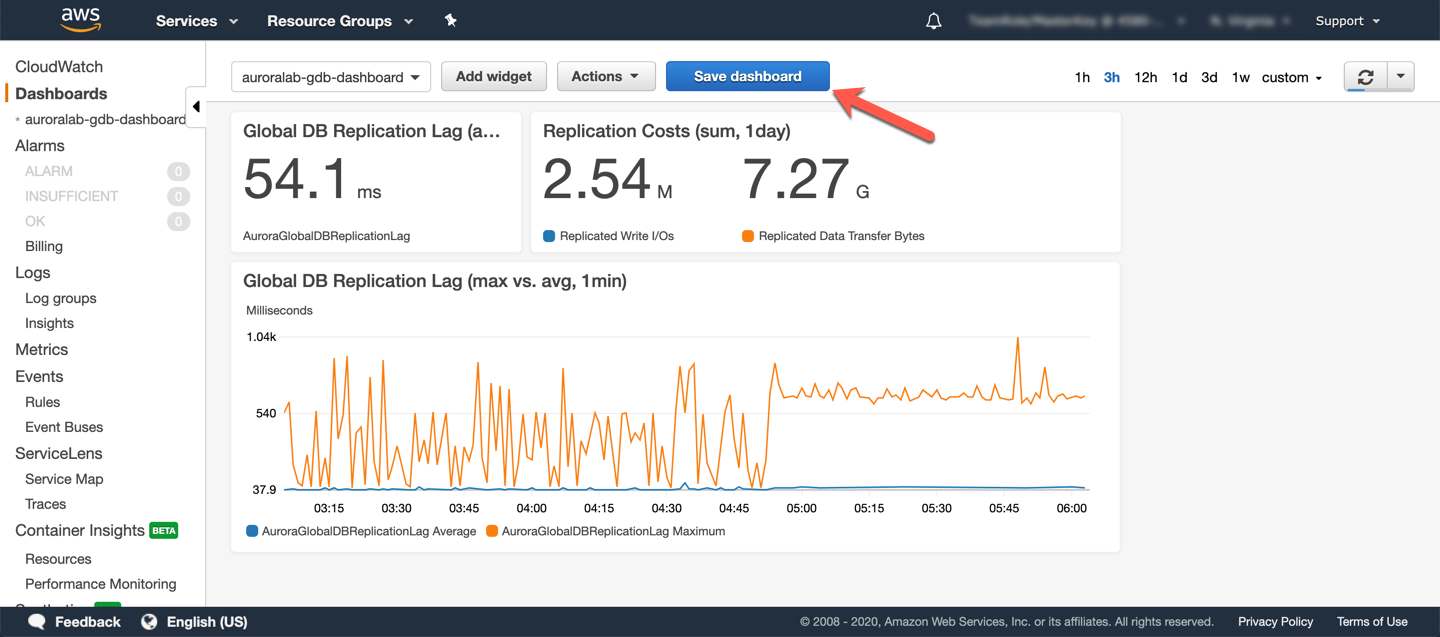
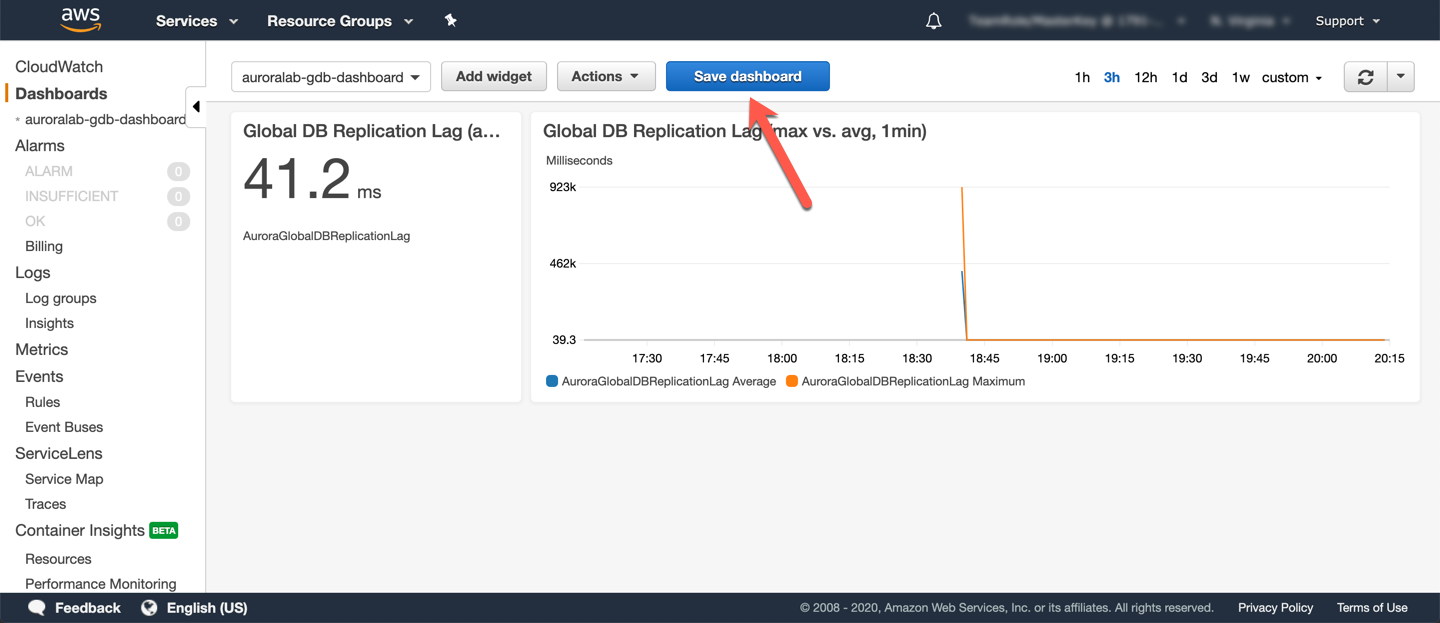
UKIR: reordered labs, bug fixes

diff --git a/docs/win/ams-gdb/index.md b/docs/win/ams-gdb/index.md
@@ -44,6 +44,9 @@ Once the status of the stack is `CREATE_COMPLETE`, click on the **Outputs** tab.
 
 While the second region is being built up, you will use Percona's TPCC-like benchmark script based on sysbench to generate load on the DB cluster in the existing region. For simplicity we have packaged the correct set of commands in an <a href="https://docs.aws.amazon.com/systems-manager/latest/userguide/sysman-ssm-docs.html" target="_blank">AWS Systems Manager Command Document</a>. You will use <a href="https://docs.aws.amazon.com/systems-manager/latest/userguide/execute-remote-commands.html" target="_blank">AWS Systems Manager Run Command</a> to execute the test. The load generator will run for approximatively one hour.
 
+!!! note
+    You will need to run the command in the **primary region**, not the region used for step 1. Create a lab environment in a different region.
+
 If you are not already connected to the Session Manager workstation command line, please connect [following these instructions](/win/ams-connect/). Once connected, enter one of the following commands, replacing the placeholders appropriately.
 
 ```shell
@@ -72,7 +75,7 @@ The CloudFormation environment that was provisioned automatically for you, alrea
 
 Once the lab environment created above at **Step 1. Create a lab environment in a different region** has finished deploying, you may proceed.
 
-Open the <a href="https://eu-west-1.console.aws.amazon.com/rds/home?region=eu-west-1#database:id=auroralab-mysql-cluster;is-cluster=true" target="_blank">Amazon RDS service console</a> at the MySQL DB cluster details page. If you navigated to the RDS console by means other than the link in this paragraph, click on the `auroralab-mysql-cluster` in the **Databases** section of the RDS service console.
+Open the <a href="https://eu-west-1.console.aws.amazon.com/rds/home?region=eu-west-1#database:id=auroralab-mysql-cluster;is-cluster=true" target="_blank">Amazon RDS service console</a> at the MySQL DB cluster details page in the **primary** region. If you navigated to the RDS console by means other than the link in this paragraph, click on the `auroralab-mysql-cluster` in the **Databases** section of the RDS service console, and make sure you are back in the primary regions.
 
 From the **Actions** dropdown button, choose **Add region**.
 
@@ -89,7 +92,7 @@ Next, expand the **Advanced configuration** section. Set the **DB instance ident
 Keep the `1 day` **Backup retention period**. Check the box to **Enable Performance Insights** with a **Retention period** of `Default (7 days)` and use the `[default] aws/rds` **Master key** for monitoring data encryption. Next, check the **Enable Enhanced Monitoring** box, select a **Granularity** of `1 second` and select the **Monitoring Role** value `auroralab-monitor-us-east-1`.
 
 !!! note
-    Please note there are **two** monitoring roles in the list, one for the main region (the one in the top right corner of your web page), the other for the secondary region (typically `us-east-1`). At this step, you need the secondary one.
+    Please note there are **two** monitoring roles in the list, one for the primary region (the one in the top right corner of your web page), the other for the secondary region (typically `us-east-1`). At this step, you need the **secondary** region one.
 
 <span class="image">![RDS Cluster Add Region](rds-cluster-add-region.png?raw=true)</span>
 
@@ -101,7 +104,12 @@ Click **Add region** to provision the global cluster.
 !!! note
     Creating a global cluster based on the existing DB cluster is a seamless operation, your workload will not experience any disruption. You can monitor the performance metrics of the load generator started above, throughout this operation to validate.
 
-The global cluster, including the secondary DB cluster and instance may take several minutes to provision. In order to connect to the DB cluster and start using it , you need to retrieve the DB cluster endpoints. Unlike a regular DB cluster, only the **Reader Endpoint** is provisioned. The **Cluster Endpoint** is not being provisioned, as secondary DB clusters only contain readers, and cannot accept writes. The **Reader Endpoint** will always resolve to one of the reader DB instances and should be used for low latency read operations within that region. In the RDS console, go to the DB cluster detail view by clicking on the cluster DB identifier for the secondary DB cluster, named `auroralab-mysql-secondary`.
+The global cluster, including the secondary DB cluster and instance may take up to 30 minutes to provision.
+
+???+ tip "While you wait..."
+    While you wait for the secondary DB cluster to provision, consider moving ahead and trying out the [Aurora Serverless labs](/win/ams-srvless-create/). You can always come back, when the secondary cluster finished deploying.
+
+In order to connect to the DB cluster and start using it, you need to retrieve the DB cluster endpoints. Unlike a regular DB cluster, only the **Reader Endpoint** is provisioned. The **Cluster Endpoint** is not being provisioned, as secondary DB clusters only contain readers, and cannot accept writes. The **Reader Endpoint** will always resolve to one of the reader DB instances and should be used for low latency read operations within that region. In the RDS console, go to the DB cluster detail view by clicking on the cluster DB identifier for the secondary DB cluster, named `auroralab-mysql-secondary`.
 
 The **Endpoints** section in the **Connectivity and security** tab of the details page displays the endpoints. Note these values down, as you will use them later.
 
@@ -171,7 +179,7 @@ In the textbox that appears on the screen, paste the following JSON code. Be sur
             "x": 0,
             "y": 0,
             "width": 6,
-            "height": 3,
+            "height": 6,
             "properties": {
                 "metrics": [
                     [ "AWS/RDS", "AuroraGlobalDBReplicationLag", "SourceRegion", "eu-west-1" ]
@@ -185,8 +193,8 @@ In the textbox that appears on the screen, paste the following JSON code. Be sur
         },
         {
             "type": "metric",
-            "x": 0,
-            "y": 3,
+            "x": 6,
+            "y": 0,
             "width": 18,
             "height": 6,
             "properties": {
@@ -200,24 +208,6 @@ In the textbox that appears on the screen, paste the following JSON code. Be sur
                 "title": "Global DB Replication Lag (max vs. avg, 1min)",
                 "stat": "Average",
                 "period": 60
-            }
-        },
-        {
-            "type": "metric",
-            "x": 6,
-            "y": 0,
-            "width": 12,
-            "height": 3,
-            "properties": {
-                "metrics": [
-                    [ "AWS/RDS", "AuroraGlobalDBReplicatedWriteIO", "DBClusterIdentifier", "auroralab-mysql-secondary", { "label": "Replicated Write I/Os" } ],
-                    [ ".", "AuroraGlobalDBDataTransferBytes", ".", ".", { "label": "Replicated Data Transfer Bytes" } ]
-                ],
-                "view": "singleValue",
-                "region": "us-east-1",
-                "stat": "Sum",
-                "period": 86400,
-                "title": "Replication Costs (sum, 1day)"
             }
         }
     ]

diff --git a/docs/win/index.md b/docs/win/index.md
@@ -34,19 +34,19 @@ If the status of the stack is `CREATE_COMPLETE`, click on the **Outputs** tab. T
 
 For your convenience, a lab environment has already been deployed for you. The lab environment contains the following resources:
 
-1. **Two Amazon Aurora database clusters**, one running PostgreSQL, the other running MySQL. They are named **labstack-postgres-cluster** and **labstack-mysql-cluster**. Each DB cluster contains two database instances (with names ending in node-1 and node-2), deployed each in two separate Availability Zones for Multi-AZ high availability. One of the DB instances is a writer (master), the other a reader (read-only replica).
-2. **Two EC2-based workstations**, one containing the necessary software to complete the Aurora PostgreSQL labs, the other to be used for the Aurora MySQL labs. You will connect to them using <a href="https://docs.aws.amazon.com/systems-manager/latest/userguide/what-is-systems-manager.html" target="_blank">AWS Systems Manager</a> - Session Manager, following the instructions provided. You do not need to install any client software on your computer.
+1. **Two Amazon Aurora database clusters**, one running MySQL, the other running PostgreSQL. They are named **auroralab-mysql-cluster** and **auroralab-postgres-cluster**. Each DB cluster contains two database instances (with names ending in node-1 and node-2), deployed each in two separate Availability Zones for Multi-AZ high availability. One of the DB instances is a writer (master), the other a reader (read-only replica).
+2. **Two EC2-based workstations**, one containing the necessary software to complete the Aurora MySQL labs, the other to be used for the Aurora PostgreSQL labs. You will connect to them using <a href="https://docs.aws.amazon.com/systems-manager/latest/userguide/what-is-systems-manager.html" target="_blank">AWS Systems Manager</a> - Session Manager, following the instructions provided. You do not need to install any client software on your computer.
 3. Supporting resources and network configuration, including: <a href="https://docs.aws.amazon.com/vpc/latest/userguide/what-is-amazon-vpc.html" target="_blank">VPC</a>, subnets, gateways, subnet groups, security groups, IAM roles, credentials stored in an <a href="https://docs.aws.amazon.com/secretsmanager/latest/userguide/intro.html" target="_blank">AWS Secrets Manager</a> secret.
 
-Time permitting, you will run the following hands-on labs. Start with  [connecting to Aurora PostgreSQL](/win/apg-connect/).
+Time permitting, you will run the following hands-on labs. Start with  [connecting to Aurora MySQL](/win/ams-connect/).
 
 # | Lab Module | Recommendation | Overview
 --- | --- | --- | ---
-1 | [**Connect to Aurora PostgreSQL**](/win/apg-connect/) | Connect to the lab environment for the Aurora PostgreSQL labs.
-2 | [**Use Query Plan Management**](/win/apg-qpm/) | Learn how to use the query plan management features of Aurora PostgreSQL.
-3 | [**Set up Database Activity Streams**](/win/apg-das/) | Enable Database Activity Streams, read and process events from the activity stream.
-4 | [**Connect to Aurora MySQL**](/win/ams-connect/) | Connect to the DB cluster for the first time and load an initial data set
-5 | [**Clone an Aurora DB cluster**](/win/ams-clone/) | Clone an Aurora DB cluster and observing the divergence of the data set.
-6 | [**Deploy a Global Database**](/win/ams-gdb/) | Learn how to operate an Aurora Global Database cluster
-7 | [**Create a Serverless DB cluster**](/win/ams-srvless-create/) | Optional. Connect to your serverless cluster using the RDS Data API and Lambda functions.
-8 | [**Use the RDS Data API**](/win/ams-srvless-data-api/) | Optional. Connect to your serverless cluster using the RDS Data API and Lambda functions. Requires the previous lab.
+1 | [**Connect to Aurora MySQL**](/win/ams-connect/) | Connect to the DB cluster for the first time and load an initial data set
+2 | [**Clone an Aurora DB cluster**](/win/ams-clone/) | Clone an Aurora DB cluster and observing the divergence of the data set.
+3 | [**Deploy a Global Database**](/win/ams-gdb/) | Learn how to operate an Aurora Global Database cluster
+4 | [**Create a Serverless DB cluster**](/win/ams-srvless-create/) | Optional. Connect to your serverless cluster using the RDS Data API and Lambda functions.
+5 | [**Use the RDS Data API**](/win/ams-srvless-data-api/) | Optional. Connect to your serverless cluster using the RDS Data API and Lambda functions. Requires the previous lab.
+6 | [**Connect to Aurora PostgreSQL**](/win/apg-connect/) | Connect to the lab environment for the Aurora PostgreSQL labs.
+7 | [**Use Query Plan Management**](/win/apg-qpm/) | Learn how to use the query plan management features of Aurora PostgreSQL.
+8 | [**Set up Database Activity Streams**](/win/apg-das/) | Enable Database Activity Streams, read and process events from the activity stream.

diff --git a/docs/win/apg-connect/index.md b/docs/win/apg-connect/index.md
@@ -2,11 +2,15 @@
 
 To interact with the Aurora database cluster, you will use an <a href="https://aws.amazon.com/ec2/" target="_blank">Amazon EC2</a> Linux instance that acts like a workstation to interact with the AWS resources in the labs on this website. All necessary software packages and scripts have been installed and configured on this EC2 instance for you. To ensure a unified experience, you will be interacting with this workstation using <a href="https://docs.aws.amazon.com/systems-manager/latest/userguide/session-manager.html" target="_blank">AWS Systems Manager Session Manager</a>. With Session Manager you can interact with your workstation directly from the management console, without the need to install any software on your own devices.
 
+!!! note
+    At this time, you have completed the Aurora MySQL portion of this workshop. you may close the command line windows and tabs used for those labs, if you like, and to eliminate any confusion. The following Aurora PostgreSQL labs use a different set of resources, in order to provide a consistent experience.
+
 This lab contains the following tasks:
 
 1. Note the CloudFormation resource chart
 2. Retrieve database credentials from AWS Secret Manager
 3. Connecting to the EC2 bastion instance with Systems Manager
+4. Connect to the DB cluster
 
 This lab requires the following prerequisites:
 
@@ -68,4 +72,42 @@ Next, update the `$PATH` environment variable with the location of the PostgreSQ
 
 ```shell
 export PATH=/home/ec2-user/postgresql-10.7/src/bin/:/home/ec2-user/postgresql-10.7/src/bin/pgbench:$PATH
+```
+
+## 4. Connect to the DB cluster
+
+Connect to the Aurora database just like you would to any other PostgreSQL database, using a compatible client tool. In this lab you will be using the `psql` command line tool to connect.
+
+Run the command below, replacing the ==[postgresClusterEndpoint]== placeholder with the cluster endpoint of your DB cluster. You will find the value for the cluster endpoint parameter in the CloudFormation stack outputs.
+
+```shell
+psql -h [postgresClusterEndpoint] -p 5432 -U masteruser -d mylab
+```
+
+Once connected you can issue SQL commands to the database. List the available databases using:
+
+```sql
+\l
+```
+
+You should see a result similar to the example below:
+
+```text
+                                     List of databases
+   Name    |   Owner    | Encoding |   Collate   |    Ctype    |     Access privileges
+-----------+------------+----------+-------------+-------------+---------------------------
+ mylab     | masteruser | UTF8     | en_US.UTF-8 | en_US.UTF-8 |
+ postgres  | masteruser | UTF8     | en_US.UTF-8 | en_US.UTF-8 |
+ rdsadmin  | rdsadmin   | UTF8     | en_US.UTF-8 | en_US.UTF-8 | rdsadmin=CTc/rdsadmin
+ template0 | rdsadmin   | UTF8     | en_US.UTF-8 | en_US.UTF-8 | =c/rdsadmin              +
+           |            |          |             |             | rdsadmin=CTc/rdsadmin
+ template1 | masteruser | UTF8     | en_US.UTF-8 | en_US.UTF-8 | =c/masteruser            +
+           |            |          |             |             | masteruser=CTc/masteruser
+(5 rows)
+```
+
+Quit out of the database client using the following command:
+
+```sql
+\q
 ```

diff --git a/docs/win/ams-connect/index.md b/docs/win/ams-connect/index.md
@@ -2,9 +2,6 @@
 
 To interact with the Aurora database cluster, you will use an <a href="https://aws.amazon.com/ec2/" target="_blank">Amazon EC2</a> Linux instance that acts like a workstation to interact with the AWS resources in the labs on this website. All necessary software packages and scripts have been installed and configured on this EC2 instance for you. To ensure a unified experience, you will be interacting with this workstation using <a href="https://docs.aws.amazon.com/systems-manager/latest/userguide/session-manager.html" target="_blank">AWS Systems Manager Session Manager</a>. With Session Manager you can interact with your workstation directly from the management console, without the need to install any software on your own devices.
 
-!!! note
-    At this time, you have completed the Aurora PostgreSQL portion of this workshop. you may close the command line windows and tabs used for those labs, if you like, and to eliminate any confusion. The following Aurora MySQL labs use a different set of resources, in order to provide a consistent experience.
-
 This lab contains the following tasks:
 
 1. Note the CloudFormation resource chart

diff --git a/docs/win/apg-qpm/index.md b/docs/win/apg-qpm/index.md
@@ -55,7 +55,7 @@ Set the value of the **rds.enable_plan_management** parameter to `1` and click *
 
 <span class="image">![RDS Parameter Group Changes](rds-param-groups-change.png?raw=true)</span>
 
-Go back to the list of parameters, and select the DB instance parameter group. You will find the name of the DB cluster parameter group in the **Outputs** section of the CloudFormation stack (see previous lab modules) using the key ==[postgresInstanceParamGroup]==. It is in the format `mod-XXXXXXXXXXXXXXXX-pgnodeparams-XXXXXXXXX`. Similarly, open your database level parameter group and click on **Edit parameters**.
+Go back to the list of parameters, and select the DB instance parameter group. You will find the name of the DB cluster parameter group in the **Outputs** section of the CloudFormation stack (see previous lab modules) using the key ==[postgresNodeParamGroup]==. It is in the format `mod-XXXXXXXXXXXXXXXX-pgnodeparams-XXXXXXXXX`. Similarly, open your database level parameter group and click on **Edit parameters**.
 
 <span class="image">![RDS Parameter Groups](rds-param-groups-list-node.png?raw=true)</span>
 

diff --git a/docs/win/ams-srvless-create/index.md b/docs/win/ams-srvless-create/index.md
@@ -1,7 +1,7 @@
 # Create an Aurora Serverless DB Cluster
 
-!! note "Optional"
-    This lab, and the subsequent lab on using the Data API, are optional, to be completed it time allows. However if you do wish to explore the Data API, in the next lab you need to complete this lab first.
+!!! note "Optional"
+    This lab, and the subsequent lab on using the Data API, are optional, to be completed if time allows. However if you do wish to explore the Data API in the next lab, you need to complete this lab first.
 
 This lab will walk you through the steps of creating an Amazon Aurora Serverless database cluster manually, and configuring the scaling parameters of the cluster.
 
